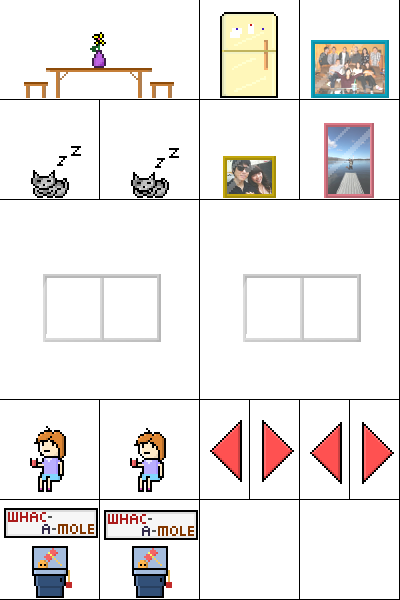
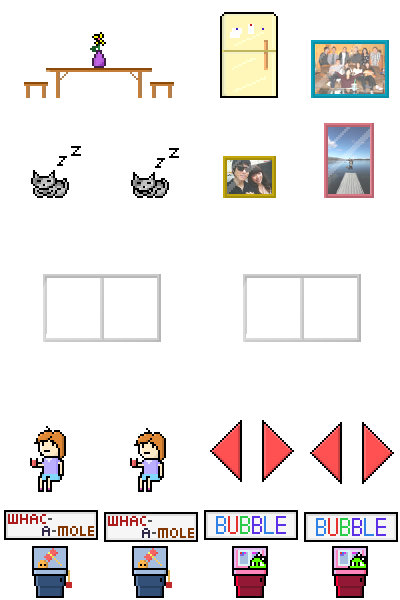
bubble src imgs done, battle interface, arrow, bubble generator done

diff --git a/bubble/bubble.js b/bubble/bubble.js
@@ -1,0 +1,332 @@
+var bubble={
+  status: false,
+	spriteSheet: undefined,
+  backgroundSheet: undefined,
+  click: false,
+	powerOn: function(){
+		this.status = true;
+//		this.main.status = false;
+		this.menuGene();
+//		this.reset();
+	},
+  reset: function(){
+
+  },
+	isRectClick: function(x,y,width,height){
+		if(this.click &&mouse.x>x && mouse.y>y && mouse.x<x+width && mouse.y<y+height){
+			this.click = false;
+			return true;
+		}
+	},
+	menu:{
+		status:false,
+		background: undefined,
+		title: {
+			status:undefined,
+			x:88,
+			y:30,
+			sx:0,
+			sy:0,
+			width:288,
+			height:80
+		}
+	},
+	menuGene: function() {
+    this.menu.status = true;
+    this.menu.background = true;
+    this.menu[1] = {x:120, y:165, width:180, height:25, string:"SINGLE PLAY"};
+    this.menu[2] = {x:120, y:255, width:180, height:25, string:"BATTLE MODE"};
+    this.menu[3] = {x:120, y:210, width:180, height:25, string:"RANKS(SINGLE)"};
+    this.menu[4] = {x:120, y:300, width:180, height:25, string:"EXIT"};
+    this.menu.title.status=true;
+	},
+	menuUpdate: function(){
+		for(var i=1; i<=4; i++){
+			if(this.isRectClick(this.menu[i].x,this.menu[i].y-this.menu[i].height,this.menu[i].width,this.menu[i].height)){
+				switch(i){
+					case 1: //sigle play
+					console.log("single not yet");
+					break;
+					case 2: // battle mode
+          this.menu.status = false;
+					this.battleGene();
+					break;
+					case 3: // ranks
+					console.log("rank not yet");
+					break;
+					case 4: //exit
+          this.menu.status = false;
+					this.exit();
+					break;
+				}
+			}
+		}
+	},
+	menuDraw: function(){
+		ctx.save();
+		if(this.menu.background){
+			ctx.fillStyle = "rgba(0,0,0,0.7)";
+			ctx.fillRect(0,0,WIDTH,HEIGHT);
+		}
+		if(this.menu.title.status){
+			ctx.drawImage(this.spriteSheet, this.menu.title.sx, this.menu.title.sy, this.menu.title.width, this.menu.title.height, this.menu.title.x, this.menu.title.y, this.menu.title.width, this.menu.title.height);
+		}
+		ctx.fillStyle="rgb(255,255,255)";
+		ctx.font = this.menu[1].height+"px Arial";
+		ctx.strokeStyle="rgb(0,0,0)";
+		ctx.lineWidth=5;
+		for(var i = 1; i<= 4; i++){
+			ctx.strokeText(this.menu[i].string, this.menu[i].x, this.menu[i].y);
+			ctx.fillText(this.menu[i].string, this.menu[i].x, this.menu[i].y);
+		}
+		ctx.restore();
+	},
+	exit: function(){
+		this.status = false;
+	},
+  bubbles: [
+    {color: 0, sx:0, sy:482, width:32, height:32, special:null},
+    {color: 0, sx:0, sy:518, width:32, height:32, special:"bomb"},
+    {color: 0, sx:0, sy:554, width:32, height:32, special:"colorChange"},
+    {color: 1, sx:36, sy:482, width:32, height:32, special:null},
+    {color: 1, sx:36, sy:518, width:32, height:32, special:"bomb"},
+    {color: 1, sx:36, sy:554, width:32, height:32, special:"colorChange"},
+    {color: 2, sx:72, sy:482, width:32, height:32, special:null},
+    {color: 2, sx:72, sy:518, width:32, height:32, special:"bomb"},
+    {color: 2, sx:72, sy:554, width:32, height:32, special:"colorChange"},
+    {color: 3, sx:108, sy:482, width:32, height:32, special:null},
+    {color: 3, sx:108, sy:518, width:32, height:32, special:"bomb"},
+    {color: 3, sx:108, sy:554, width:32, height:32, special:"colorChange"},
+    {color: 4, sx:144, sy:482, width:32, height:32, special:null},
+    {color: 4, sx:144, sy:518, width:32, height:32, special:"bomb"},
+    {color: 4, sx:144, sy:554, width:32, height:32, special:"colorChange"},
+    {color: 5, sx:180, sy:482, width:32, height:32, special:null},
+    {color: 5, sx:180, sy:518, width:32, height:32, special:"bomb"},
+    {color: 5, sx:180, sy:554, width:32, height:32, special:"colorChange"},
+  ],
+  bubbleGenerator: function(){
+    var randNum=Math.random();
+    var type;
+    if(randNum<0.9){
+      type=0;
+    } else if(randNum<0.95){
+      type=1;
+    } else {
+      type=2;
+    }
+    return (Math.floor(Math.random()*6)*3+type);
+  },
+  battle: {
+    status:false,
+    background: {
+      num: undefined,
+      maxNum: 1,
+      0:{ x:76,
+  			y:15,
+  			sx:0,
+  			sy:0,
+  			width:224,
+  			height:186
+  		}
+    },
+    gameFrame: {
+      x:64,
+      y:3,
+      sx:0,
+      sy:84,
+      width:472,
+      height:394
+    },
+    whoseTurn:1,
+    clickCount:0,
+    clickSpeed:1,
+    player: {
+      1:{
+        arrow: {
+          angle: 0,
+          x:180,
+          y:299,
+          sx:216,
+          sy:482,
+          width:16,
+          height:80
+        },
+        buttonLeft:{
+          x:82,
+          y:345,
+          sx:236,
+          sy:482,
+          width:38,
+          height:28
+        },
+        buttonRight:{
+          x:254,
+          y:345,
+          sx:278,
+          sy:482,
+          width:38,
+          height:28
+        },
+        buttonShoot:{
+          x:204,
+          y:340,
+          sx:320,
+          sy:482,
+          width:26,
+          height:38
+        },
+        curBubble:{
+          num:undefined,
+          x:188,
+          y:342,
+          xDefault:188,
+          yDefault:342
+        },
+        nextBubble:{
+          num:undefined,
+          x:153,
+          y:365
+        }
+      },
+      2:{
+        arrow: {
+          angle: 0,
+          x:404,
+          y:299,
+          sx:216,
+          sy:482,
+          width:16,
+          height:80
+        },
+        buttonLeft:{
+          x:306,
+          y:345,
+          sx:236,
+          sy:482,
+          width:38,
+          height:28
+        },
+        buttonRight:{
+          x:478,
+          y:345,
+          sx:278,
+          sy:482,
+          width:38,
+          height:28
+        },
+        buttonShoot:{
+          x:428,
+          y:340,
+          sx:320,
+          sy:482,
+          width:26,
+          height:38
+        },
+        curBubble:{
+          num:undefined,
+          x:412,
+          y:342,
+          xDefault:412,
+          yDefault:342
+        },
+        nextBubble:{
+          num:undefined,
+          x:377,
+          y:365
+        }
+      }
+    }
+  },
+  battleGene: function(){
+    this.battle.status = true;
+    this.battle.background.num=Math.floor(Math.random()*this.battle.background.maxNum);
+    this.battle.player[1].curBubble.num=this.bubbleGenerator();
+    this.battle.player[1].nextBubble.num=this.bubbleGenerator();
+    this.battle.player[2].curBubble.num=this.bubbleGenerator();
+    this.battle.player[2].nextBubble.num=this.bubbleGenerator();
+  },
+  battleDraw: function(){
+     //black background
+    ctx.fillStyle = "rgba(0,0,0,0.7)";
+    ctx.fillRect(0,0,WIDTH,HEIGHT);
+    //stage setting
+    ctx.drawImage(this.backgroundSheet, this.battle.background[this.battle.background.num].sx, this.battle.background[this.battle.background.num].sy, this.battle.background[this.battle.background.num].width, this.battle.background[this.battle.background.num].height, this.battle.background[this.battle.background.num].x, this.battle.background[this.battle.background.num].y, this.battle.background[this.battle.background.num].width*2, this.battle.background[this.battle.background.num].height*2);
+    ctx.drawImage(this.spriteSheet, this.battle.gameFrame.sx, this.battle.gameFrame.sy, this.battle.gameFrame.width, this.battle.gameFrame.height, this.battle.gameFrame.x, this.battle.gameFrame.y, this.battle.gameFrame.width, this.battle.gameFrame.height);
+    //player[1] arrow & bubbles
+    ctx.save();
+    ctx.translate(this.battle.player[1].arrow.x+8,this.battle.player[1].arrow.y+44);
+    ctx.rotate(this.battle.player[1].arrow.angle*Math.PI/180);
+    ctx.drawImage(this.spriteSheet, this.battle.player[1].arrow.sx, this.battle.player[1].arrow.sy, this.battle.player[1].arrow.width, this.battle.player[1].arrow.height, -8, -44, this.battle.player[1].arrow.width, this.battle.player[1].arrow.height);
+    ctx.restore();
+
+
+
+    ctx.drawImage(this.spriteSheet, this.bubbles[this.battle.player[1].curBubble.num].sx, this.bubbles[this.battle.player[1].curBubble.num].sy, this.bubbles[this.battle.player[1].curBubble.num].width, this.bubbles[this.battle.player[1].curBubble.num].height, this.battle.player[1].curBubble.x-16, this.battle.player[1].curBubble.y-16, this.bubbles[this.battle.player[1].curBubble.num].width, this.bubbles[this.battle.player[1].curBubble.num].height);
+    ctx.drawImage(this.spriteSheet, this.bubbles[this.battle.player[1].nextBubble.num].sx, this.bubbles[this.battle.player[1].nextBubble.num].sy, this.bubbles[this.battle.player[1].nextBubble.num].width, this.bubbles[this.battle.player[1].nextBubble.num].height, this.battle.player[1].nextBubble.x-16, this.battle.player[1].nextBubble.y-16, this.bubbles[this.battle.player[1].nextBubble.num].width, this.bubbles[this.battle.player[1].nextBubble.num].height);
+    //player[2] arrow & bubble
+    ctx.save();
+    ctx.translate(this.battle.player[2].arrow.x+8,this.battle.player[2].arrow.y+44);
+    ctx.rotate(this.battle.player[2].arrow.angle*Math.PI/180);
+    ctx.drawImage(this.spriteSheet, this.battle.player[2].arrow.sx, this.battle.player[2].arrow.sy, this.battle.player[2].arrow.width, this.battle.player[2].arrow.height, -8, -44, this.battle.player[2].arrow.width, this.battle.player[2].arrow.height);
+    ctx.restore();
+    ctx.drawImage(this.spriteSheet, this.bubbles[this.battle.player[2].curBubble.num].sx, this.bubbles[this.battle.player[2].curBubble.num].sy, this.bubbles[this.battle.player[2].curBubble.num].width, this.bubbles[this.battle.player[2].curBubble.num].height, this.battle.player[2].curBubble.x-16, this.battle.player[2].curBubble.y-16, this.bubbles[this.battle.player[2].curBubble.num].width, this.bubbles[this.battle.player[2].curBubble.num].height);
+    ctx.drawImage(this.spriteSheet, this.bubbles[this.battle.player[2].nextBubble.num].sx, this.bubbles[this.battle.player[2].nextBubble.num].sy, this.bubbles[this.battle.player[2].nextBubble.num].width, this.bubbles[this.battle.player[2].nextBubble.num].height, this.battle.player[2].nextBubble.x-16, this.battle.player[2].nextBubble.y-16, this.bubbles[this.battle.player[2].nextBubble.num].width, this.bubbles[this.battle.player[2].nextBubble.num].height);
+    //player[whosTurn] buttons
+    ctx.drawImage(this.spriteSheet, this.battle.player[this.battle.whoseTurn].buttonLeft.sx, this.battle.player[this.battle.whoseTurn].buttonLeft.sy, this.battle.player[this.battle.whoseTurn].buttonLeft.width, this.battle.player[this.battle.whoseTurn].buttonLeft.height, this.battle.player[this.battle.whoseTurn].buttonLeft.x, this.battle.player[this.battle.whoseTurn].buttonLeft.y, this.battle.player[this.battle.whoseTurn].buttonLeft.width, this.battle.player[this.battle.whoseTurn].buttonLeft.height);
+    ctx.drawImage(this.spriteSheet, this.battle.player[this.battle.whoseTurn].buttonRight.sx, this.battle.player[this.battle.whoseTurn].buttonRight.sy, this.battle.player[this.battle.whoseTurn].buttonRight.width, this.battle.player[this.battle.whoseTurn].buttonRight.height, this.battle.player[this.battle.whoseTurn].buttonRight.x, this.battle.player[this.battle.whoseTurn].buttonRight.y, this.battle.player[this.battle.whoseTurn].buttonRight.width, this.battle.player[this.battle.whoseTurn].buttonRight.height);
+    ctx.drawImage(this.spriteSheet, this.battle.player[this.battle.whoseTurn].buttonShoot.sx, this.battle.player[this.battle.whoseTurn].buttonShoot.sy, this.battle.player[this.battle.whoseTurn].buttonShoot.width, this.battle.player[this.battle.whoseTurn].buttonShoot.height, this.battle.player[this.battle.whoseTurn].buttonShoot.x, this.battle.player[this.battle.whoseTurn].buttonShoot.y, this.battle.player[this.battle.whoseTurn].buttonShoot.width, this.battle.player[this.battle.whoseTurn].buttonShoot.height);
+  },
+  battleUpdate: function(){
+    if(this.battle.clickCount>0){
+      this.battle.clickCount--;
+    } else {
+      this.battle.clickSpeed=1;
+    }
+    if(this.isRectClick(this.battle.player[this.battle.whoseTurn].buttonLeft.x,this.battle.player[this.battle.whoseTurn].buttonLeft.y,this.battle.player[this.battle.whoseTurn].buttonLeft.width,this.battle.player[this.battle.whoseTurn].buttonLeft.height)){
+      this.battle.player[this.battle.whoseTurn].arrow.angle-=this.battle.clickSpeed;
+      if(this.battle.player[this.battle.whoseTurn].arrow.angle < -67) this.battle.player[this.battle.whoseTurn].arrow.angle = -67;
+      this.battle.clickCount=20;
+      this.battle.clickSpeed++;
+    }
+    if(this.isRectClick(this.battle.player[this.battle.whoseTurn].buttonRight.x,this.battle.player[this.battle.whoseTurn].buttonRight.y,this.battle.player[this.battle.whoseTurn].buttonRight.width,this.battle.player[this.battle.whoseTurn].buttonRight.height)){
+      this.battle.player[this.battle.whoseTurn].arrow.angle+=this.battle.clickSpeed;
+      if(this.battle.player[this.battle.whoseTurn].arrow.angle > 67) this.battle.player[this.battle.whoseTurn].arrow.angle = 67;
+      this.battle.clickCount=20;
+      this.battle.clickSpeed++;
+    }
+    if(this.isRectClick(this.battle.player[this.battle.whoseTurn].buttonShoot.x,this.battle.player[this.battle.whoseTurn].buttonShoot.y,this.battle.player[this.battle.whoseTurn].buttonShoot.width,this.battle.player[this.battle.whoseTurn].buttonShoot.height)){
+      console.log("buttonShoot");
+    }
+  }
+
+};
+var bubbleGame =  new Thing("src/things.png", 100, 250, 98, 98, null, 70); //xpos 520
+bubble.spriteSheet = new Image();
+bubble.spriteSheet.src = "bubble/bubble.png";
+bubble.backgroundSheet = new Image();
+bubble.backgroundSheet.src = "bubble/background.png";
+bubbleGame.standing = function(){
+	this.drawData.frameTotNum = 2;
+	this.drawData.frame[1] = {x: 200, y: 500};
+	this.drawData.frame[2] = {x: 300, y: 500};
+};
+bubbleGame.update = function(){
+	if(bubble.status){
+		if(mouse.status){
+			mouse.status = false;
+			bubble.click = true;
+		}
+		if(bubble.menu.status){
+			bubble.menuDraw();
+			bubble.menuUpdate();
+		}
+		if(bubble.battle.status){
+			bubble.battleDraw();
+			bubble.battleUpdate();
+		}
+	}
+	thingObj.update.call(this);
+};
+bubbleGame.action = function(){
+  bubble.powerOn();
+};

diff --git a/nonametest.html b/nonametest.html
@@ -21,37 +21,18 @@ input[type="submit"]{
 p {
   font-size: 15px;
 }
-#getYourName{
-	display:none;
-	padding-top: 150px;
-	width: 600px;
-	height: 150px;
-   	background: url("src/name_bg.png");
- 	background-size: cover;
-  	background-position: center;
-}
-#nameInputErr{
-  color : gray;
-  display: none;
-}
 
 </style>
 	<title>HelloWorld</title>
 </head>
 <body>
-<div id="getYourName">
-<form action="getName.php" method="post">
-	<H2>Tell me your name :)</H2> 
-	<input type="text" name="yourName" value="" /> <input type="submit" name="submit" value="submit" />
-</form>
-<p id="nameInputErr"></p>
-</div>
 <script>
 	var name = "noName";
   var passcode = 12345;
 </script>
 <script src='helloworld.js'></script>
 <script src='wam/wam.js'></script>
+<script src='bubble/bubble.js'></script>
 </body>
 
 </html>

diff --git a/helloworld.js b/helloworld.js
@@ -147,6 +147,7 @@ function draw(){
 	photoframe03.draw();
 	girl1.draw();
 	wamGame.draw();
+	bubbleGame.draw();
 	if(mainMessage.count>0) mainMessage.draw();
 	if(offsetX>0) screenArrowLeft.draw();
 	if(WIDTH+offsetX<WIDTH_END) screenArrowRight.draw();
@@ -165,6 +166,7 @@ function update(){
 	screenArrowLeft.update();
 	screenArrowRight.update();
 	wamGame.update();
+	bubbleGame.update();
 
 	player.update();
 }

diff --git a/index.php b/index.php
@@ -68,6 +68,7 @@ var passcode = "<?php echo $jsPasscode; ?>";
 if(isset($_COOKIE["yourName"])){
   echo "<script src='helloworld.js'></script>\n";
   echo "<script src='wam/wam.js'></script>";
+  echo "<script src='bubble/bubble.js'></script>";
 }
 ?>
 </body>
